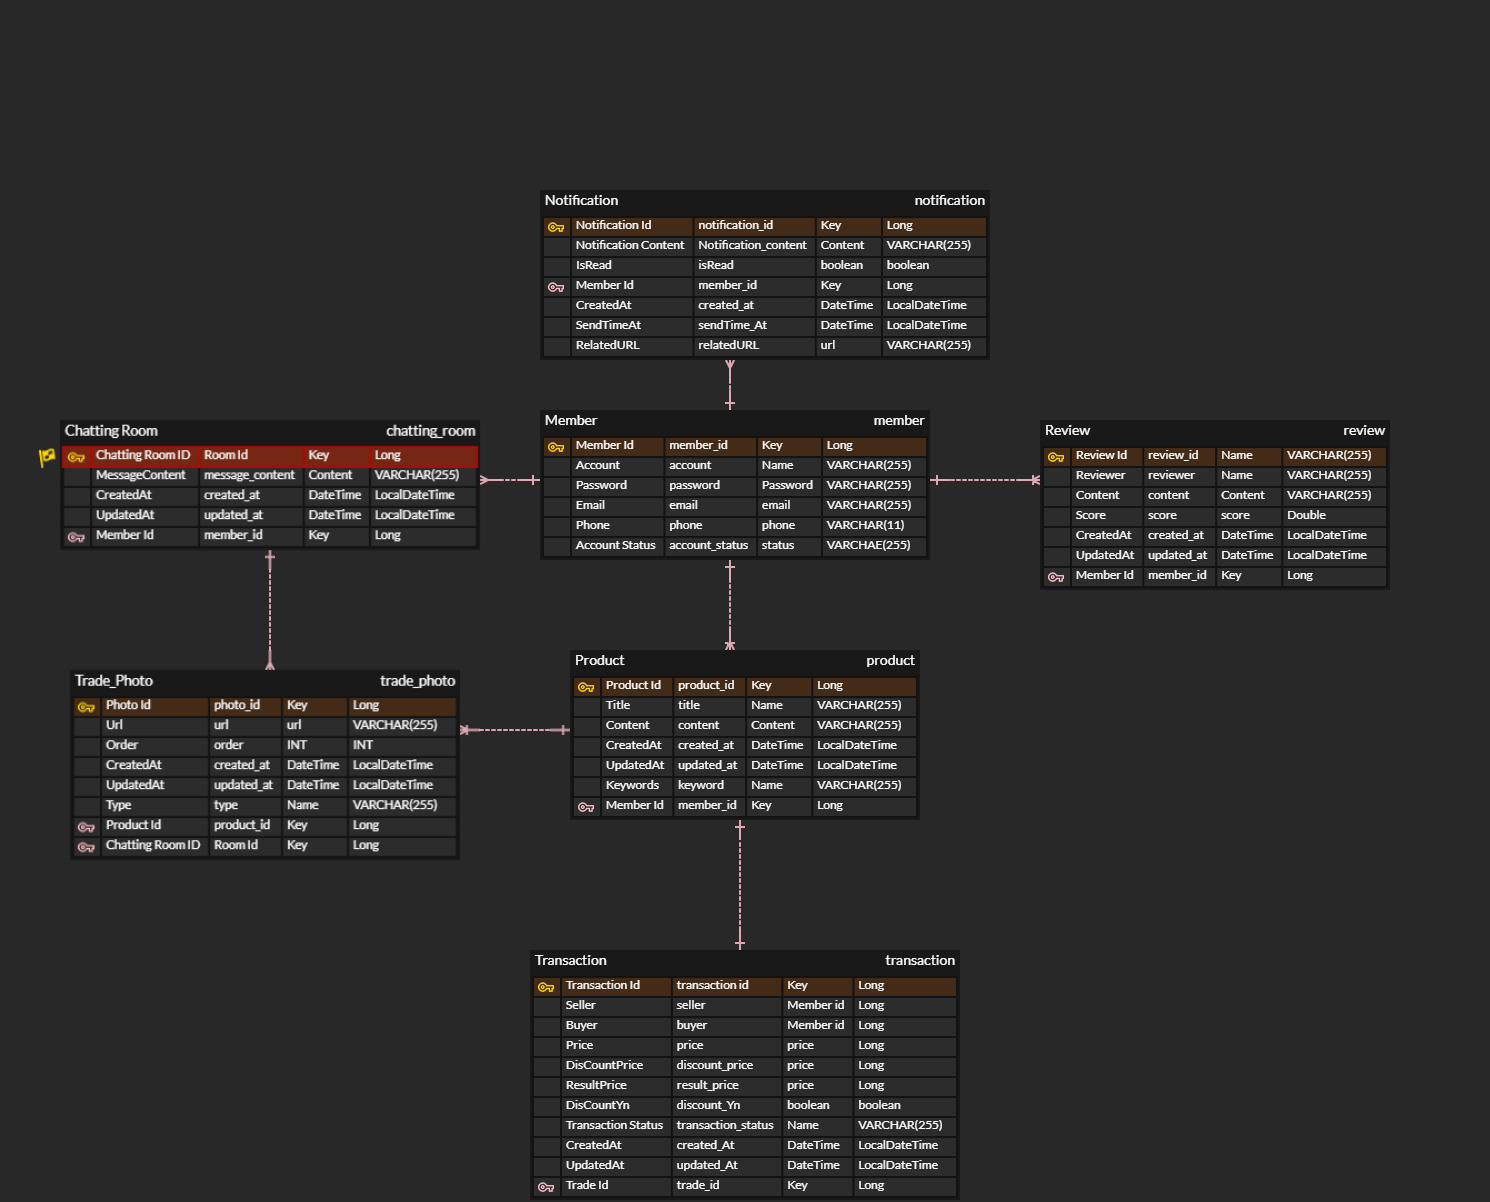
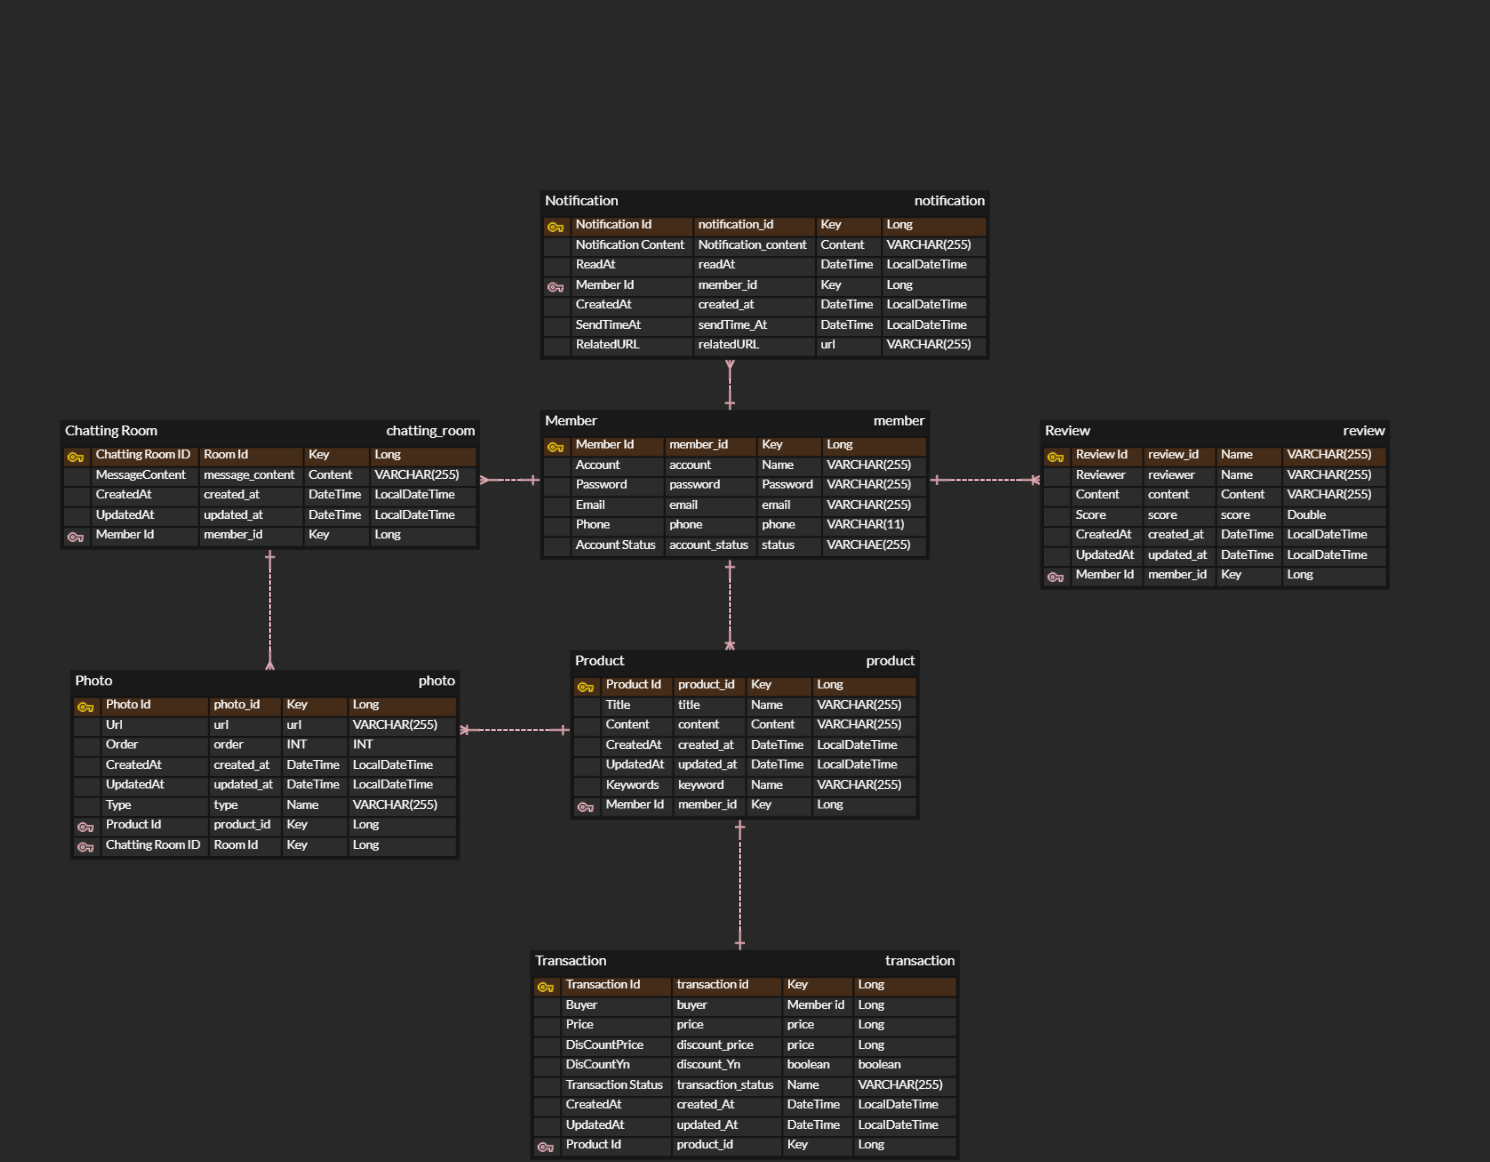
docs : README 수정 및 ERD 수정

diff --git a/README.md b/README.md
@@ -33,9 +33,18 @@
 
 - 키워드 등록 기능
   - 사용자는 키워드를 등록해 다른 사용자가 게시글 키워드를 입력했을 경우 알람을 받을 수 있다.
+
 - 리뷰 기능
   - 거래 완료 후 거래 당사자간 리뷰를 작성/수정/삭제할 수 있다.
   - 회원가입된 사용자는 회원 정보 조회를 통해 리뷰를 조회할 수 있다.
+
+- 채팅방 기능
+  - 게시글의 판매자와 다른 사용자가 채팅을 할 수 있다.
+  - 채팅방에 사진을 업로드/조회할 수 있다.
+  - 할인이 가능하도록 설정된 게시글의 경우 협의된 가격을 판매자가 등록해 할인할 수 있다.
+
+- 거래 기능
+  - 거래 완료된 게시글(중고 상품)의 경우에는 transaction 테이블로 저장되어 판매자가 조회/삭제할 수 있다.
 
 
 ### ERD
